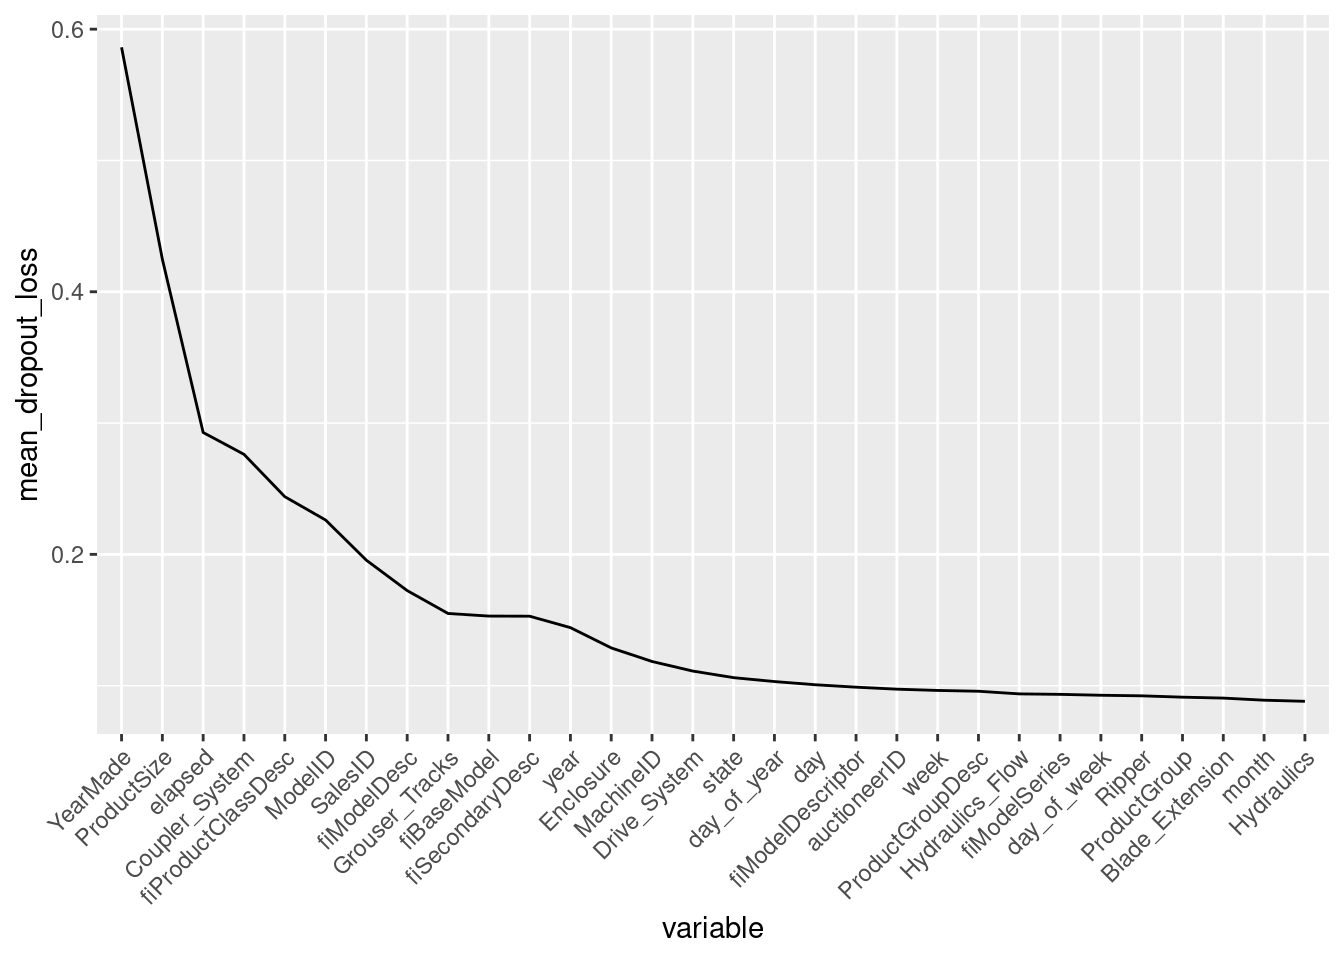
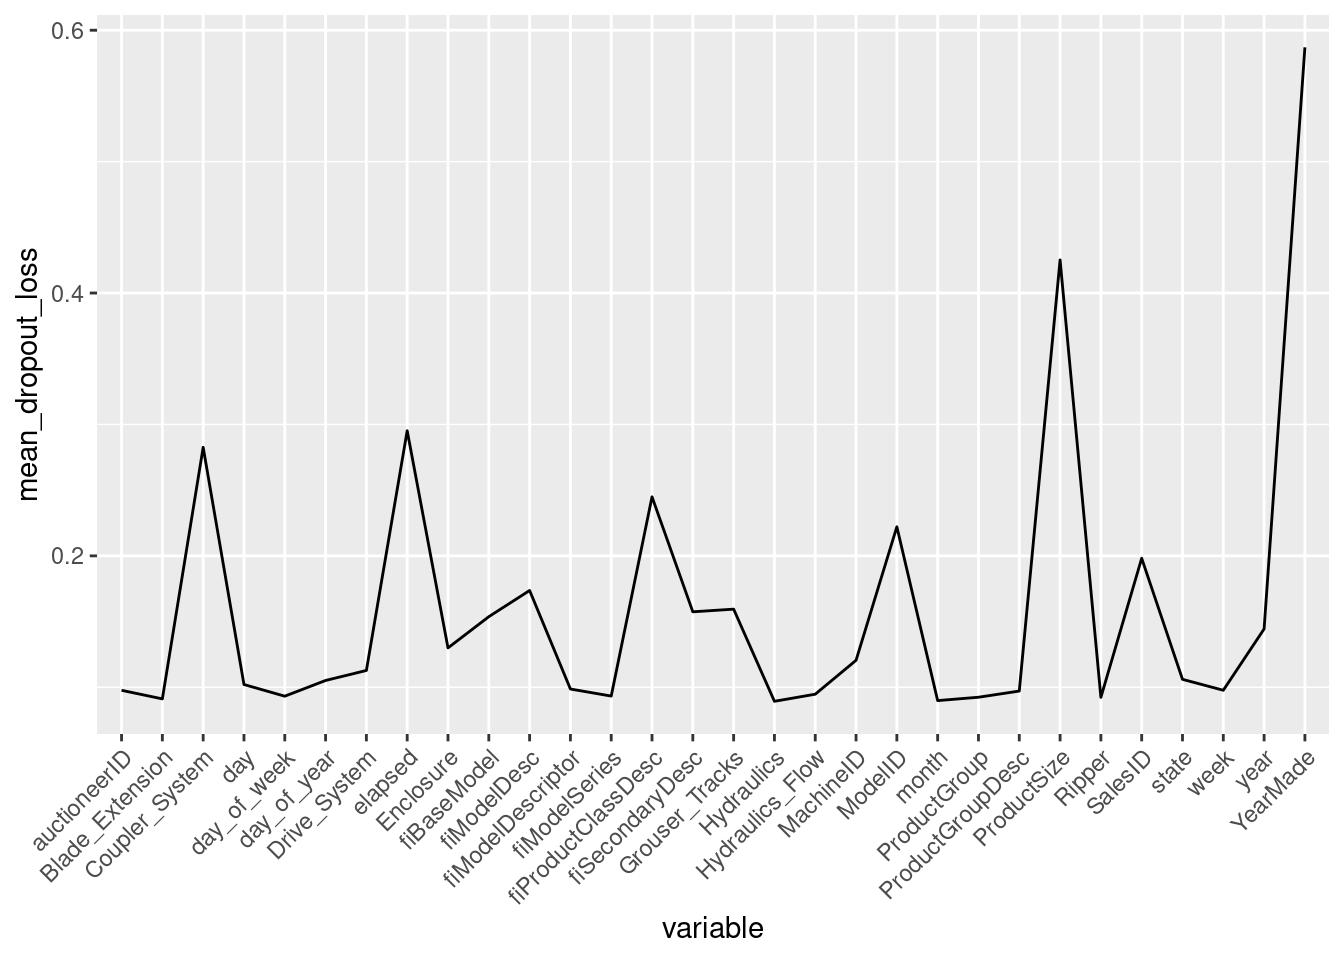
Remove dplyr warning

diff --git a/content/post/2020-09-30-improve-rf-with-vi.html b/content/post/2020-09-30-improve-rf-with-vi.html
@@ -1,5 +1,4 @@
 ---
-title: "Building first baseline model using random forest with ranger and DALEX"
 author: "Olga Mierzwa-Sulima"
 date: '2020-09-30'
 tags:
@@ -52,7 +51,7 @@ library(DALEX)
 library(tidymodels)
 library(rlang)</code></pre>
 <p>Read in data.</p>
-<pre class="r"><code>data_raw &lt;- readr::read_csv(file = &quot;Train.csv&quot;)</code></pre>
+<pre class="r"><code>data_raw &lt;- readr::read_csv(file = &quot;data/Train.csv&quot;)</code></pre>
 <div id="data-pre-processing" class="section level3">
 <h3>Data pre-processing</h3>
 <p>There are few things to be done with the data before pluging them into the model.
@@ -153,12 +152,12 @@ I limit the number of trees to speed the training process to 40.</p>
                        sample.fraction = 1,
                        respect.unordered.factors = &quot;ignore&quot;
                        ))</code></pre>
-<pre><code>## Growing trees.. Progress: 18%. Estimated remaining time: 2 minutes, 26 seconds.
-## Growing trees.. Progress: 40%. Estimated remaining time: 1 minute, 33 seconds.
-## Growing trees.. Progress: 63%. Estimated remaining time: 1 minute, 0 seconds.
-## Growing trees.. Progress: 85%. Estimated remaining time: 23 seconds.</code></pre>
+<pre><code>## Growing trees.. Progress: 15%. Estimated remaining time: 2 minutes, 55 seconds.
+## Growing trees.. Progress: 33%. Estimated remaining time: 2 minutes, 10 seconds.
+## Growing trees.. Progress: 57%. Estimated remaining time: 1 minute, 10 seconds.
+## Growing trees.. Progress: 83%. Estimated remaining time: 28 seconds.</code></pre>
 <pre><code>##    user  system elapsed 
-## 583.026   1.135 152.256</code></pre>
+## 568.808   1.669 158.982</code></pre>
 <pre class="r"><code>ranger_predictions &lt;- predict(ranger_model_with_sampling, x_valid)
 
 rmse &lt;- function(preds, y){
@@ -201,11 +200,11 @@ I drop <code>_baseline_</code> from the plot. Baseline is the change in model pe
 
 summarize_vi &lt;- var_importance %&gt;%
   group_by(variable) %&gt;% 
-  summarize(mean_dropout_loss = mean(dropout_loss)) %&gt;%
+  summarize(mean_dropout_loss = mean(dropout_loss), .groups = &quot;keep&quot;) %&gt;%
   arrange(-mean_dropout_loss) %&gt;%
-  mutate(variable = factor(variable, levels = variable))  </code></pre>
-<pre><code>## `summarise()` ungrouping output (override with `.groups` argument)</code></pre>
-<pre class="r"><code>ggplot(data = summarize_vi[2:31,],
+  mutate(variable = factor(variable, levels = variable))  
+
+ggplot(data = summarize_vi[2:31,],
        aes(y = mean_dropout_loss, x = variable, group = 1)) +
   geom_line() +
   theme(axis.text.x = element_text(angle = 45, hjust = 1))</code></pre>
@@ -225,15 +224,15 @@ x_after_var_importance &lt;- x_train %&gt;% select(var_to_keep$variable)</code><
                        respect.unordered.factors = F,
                        min.node.size = 3,
                        sample.fraction = 1))</code></pre>
-<pre><code>## Growing trees.. Progress: 63%. Estimated remaining time: 20 seconds.</code></pre>
+<pre><code>## Growing trees.. Progress: 60%. Estimated remaining time: 20 seconds.</code></pre>
 <pre><code>##    user  system elapsed 
-## 199.567   0.688  51.821</code></pre>
+## 202.407   0.673  53.474</code></pre>
 <pre class="r"><code>ranger_predictions_after_vi &lt;- predict(ranger_model_after_vi,
                                        x_valid %&gt;% select(var_to_keep$variable))
 
 eval_model(
   ranger_model_after_vi, y_train, y_valid, ranger_predictions_after_vi$predictions)</code></pre>
-<pre><code>## [1] 0.9089519 0.2082119 0.2692650</code></pre>
+<pre><code>## [1] 0.9089414 0.2082239 0.2713373</code></pre>
 <p>I end up with a simpler model with almost the same quality, differences in R^2 and RMSE are neglectable. I prefer to continue with model with less features which runs faster.</p>
 <p>Let’s again look at variable importance plot and do more digging.</p>
 <pre class="r"><code>explainer_ranger_after_vi  &lt;- explain(ranger_model_after_vi,
@@ -245,10 +244,10 @@ eval_model(
 ##   -&gt; data              :  tibble converted into a data.frame 
 ##   -&gt; target variable   :  320900  values 
 ##   -&gt; predict function  :  yhat.ranger  will be used ( [33m default [39m )
-##   -&gt; predicted values  :  numerical, min =  8.482757 , mean =  10.09765 , max =  11.84426  
+##   -&gt; predicted values  :  numerical, min =  8.490319 , mean =  10.09761 , max =  11.84655  
 ##   -&gt; model_info        :  package ranger , ver. 0.12.1 , task regression ( [33m default [39m ) 
 ##   -&gt; residual function :  difference between y and yhat ( [33m default [39m )
-##   -&gt; residuals         :  numerical, min =  -1.201127 , mean =  -0.0001043412 , max =  0.9551131  
+##   -&gt; residuals         :  numerical, min =  -1.232571 , mean =  -6.792331e-05 , max =  0.9657746  
 ##  [32m A new explainer has been created! [39m</code></pre>
 <pre class="r"><code>var_importance_ranger_after_vi &lt;- variable_importance(
   explainer_ranger_after_vi,
@@ -336,15 +335,15 @@ x_valid &lt;- x_valid %&gt;%
                        seed = 1,
                        min.node.size = 3,
                        sample.fraction = 1))</code></pre>
-<pre><code>## Growing trees.. Progress: 83%. Estimated remaining time: 6 seconds.</code></pre>
+<pre><code>## Growing trees.. Progress: 75%. Estimated remaining time: 10 seconds.</code></pre>
 <pre><code>##    user  system elapsed 
-## 149.185   0.465  38.826</code></pre>
+## 151.394   0.699  41.831</code></pre>
 <pre class="r"><code>ranger_predictions_after_vi_clean &lt;- predict(ranger_model_after_vi_data_clean,
                                        x_valid)
 
 eval_model(
   ranger_model_after_vi_data_clean, y_train, y_valid, ranger_predictions_after_vi_clean$predictions)</code></pre>
-<pre><code>## [1] 0.9104619 0.2064781 0.2667099</code></pre>
+<pre><code>## [1] 0.9107927 0.2060964 0.2653428</code></pre>
 <p>It seems cleaning YearMade and dropping IDs improved the model just a bit.</p>
 </div>
 </div>

diff --git a/content/post/wip/2020-09-23-iwildcam-2020.html b/content/post/wip/2020-09-23-iwildcam-2020.html
@@ -1,0 +1,42 @@
+---
+title: "Learning Deep Learning Vision - Top 10% in Kaggle iWildCam 2020 solution"
+author: "Olga Mierzwa-Sulima"
+date: '2020-09-23'
+tags:
+- deep learning
+- vision
+- fastai
+- python
+categories: data-science
+---
+
+
+
+<p>I used data from <a href="https://www.kaggle.com/c/iwildcam-2020-fgvc7/overview">iWildCam 2020</a> Kaggle competition to practice machine learning vision after completing fast.ai deep learning course.
+I manage to build a solution that achived 77% accuracy on the test set in classifying animals on the camera trap photo, which places the solution in the top 10% of this competition (11/121).
+I build two models: the first model was a ResNet50 on the original images just resized, with data augmentation, mixup and TTA, the second model was also ResNet50 build on the cropped images to bboxes detecting the animals. Predictions were aggregated with probabilities from original images model weighted with 0.3 and 0.7 for a cropped model preidctions. Finally the predictions were group using location and timestamp into sequences and majority class was assigned to the whole sequence as a final prediction.</p>
+<div id="data-pre-processing" class="section level2">
+<h2>Data pre-processing</h2>
+<p>The goal of 2020 iWildCam competition was to classify animals on the camera trap pictures. Created solution should work accuratly on the pictures taken in the new locations.
+Data provided by the competition organizers had large resolution and had to be resized before the analysis to speed up training time. There is also no need to train a model on large resolution images. I used the <a href="https://www.kaggle.com/qitvision/iwildcam2020-256">dataset</a> shared by the Joni Juvonen with images resized to 256x256.
+Additionally I created my own dataset and cropped original images to bboxes provided by the detector model (provided as competition data). I cropped images to bbox above 30% prediction confidence.</p>
+</div>
+<div id="data-augmentation" class="section level2">
+<h2>Data augmentation</h2>
+<p>I used random rotation of 20 degrees, random zoom and perspective warping and adjusted brightness and contrast both in the full images and croppes. I used reflection padding and normalized data to ImageNet stats.</p>
+</div>
+<div id="models" class="section level2">
+<h2>Models</h2>
+<p>I build two models. The first model was build on the original images resized to 128x128. I trained a ResNet50 using one cycle policy and mixup 10 epoches with froozen body, and next 10 epoches were all the model weights were retrained.
+The second model was also ResNet50 trained on cropped images resized to 128x128 using one cycle policy.
+I tried mixed precision and progressive resizing and increase the photos resolution to 256x256, but that didn’t improve the results.</p>
+</div>
+<div id="predictions" class="section level2">
+<h2>Predictions</h2>
+<p>Predictions are made using test time augmentation for both models. I aggregate the probabilities from 2 models using the formula <code>0.3 * probabilities from model 1 + 0.7 * probabilities from model 2</code>. For images with no predictions from the second model (lack of bbox or too low confidence) I only take predicitons from the first model. Finally I group the preidictions into sequences which I create using photo location info and timestamp. For each sequence I select the majority class in a sequence as a prediction label.</p>
+<p>I trained the models using Kaggle’s kernels.</p>
+</div>
+<div id="aknowledgements" class="section level2">
+<h2>Aknowledgements</h2>
+<p>Many thanks to fastai authors for creating an amazing learning resources and a powerful library.</p>
+</div>
